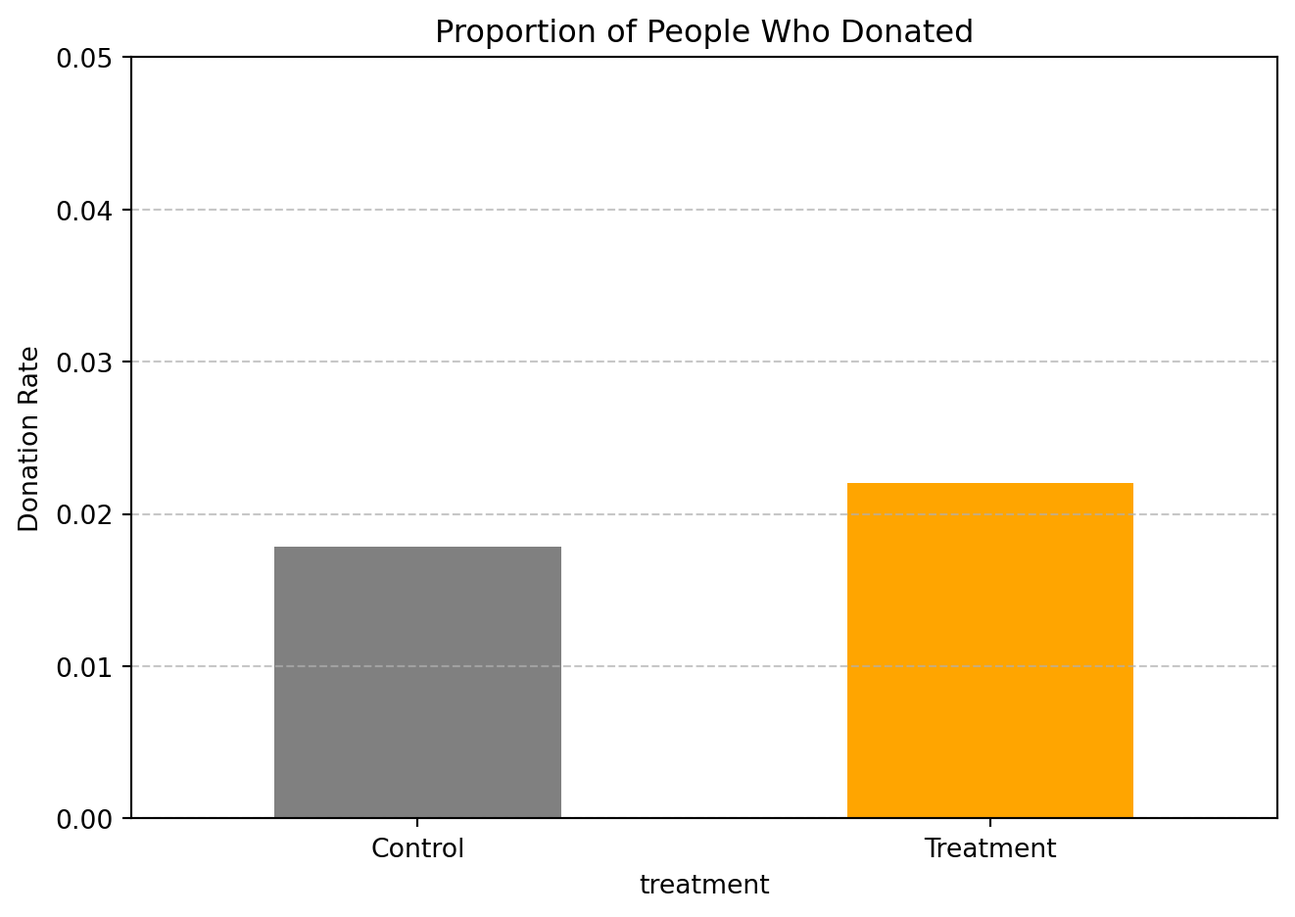
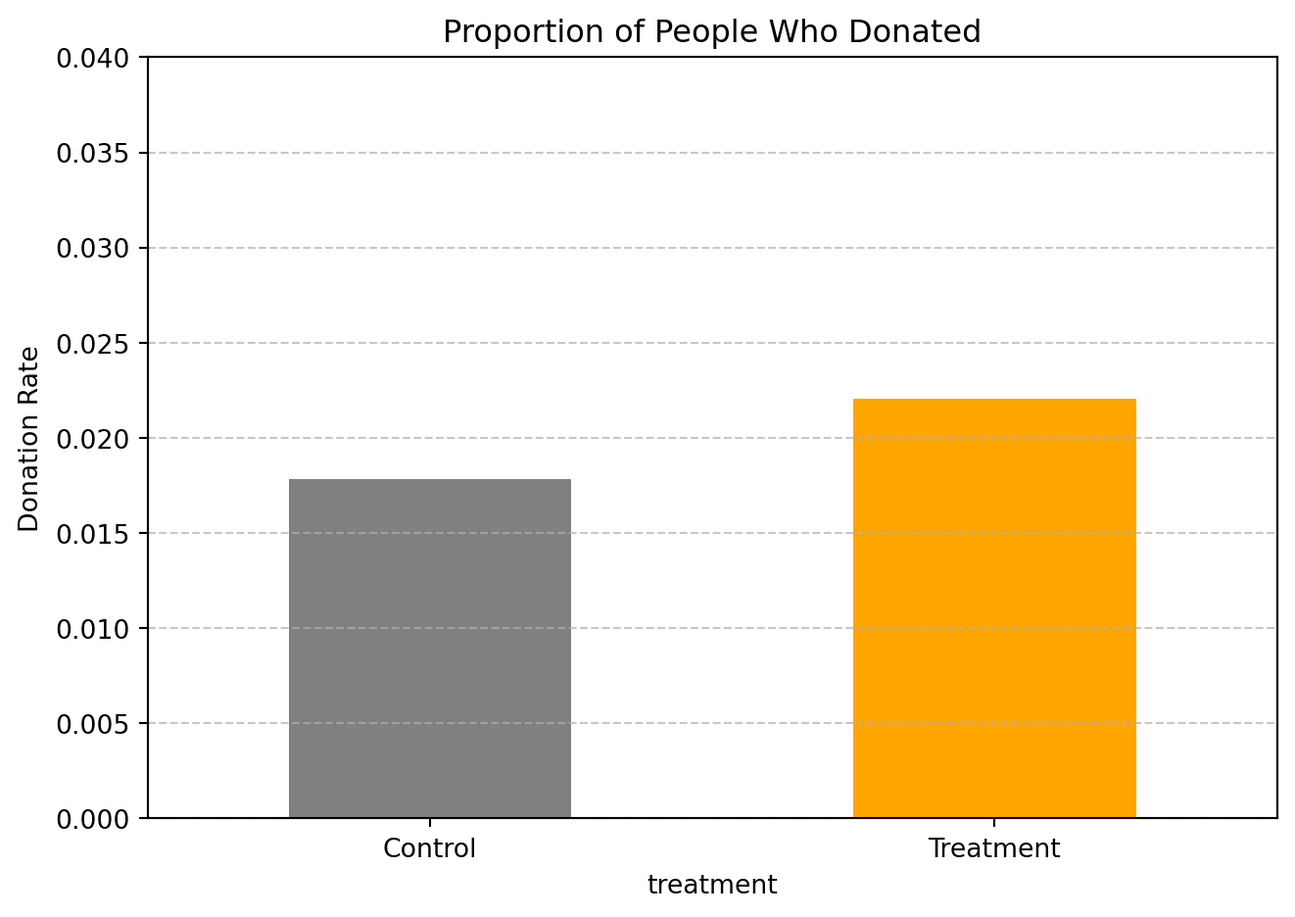
size completed

diff --git a/docs/blogs/hw1/index.html b/docs/blogs/hw1/index.html
@@ -234,7 +234,7 @@ pre > code.sourceCode > span > a:first-child::before { text-decoration: underlin
 - Donation behavior, such as whether the person donated in response, and how much they gave.
 - Demographic indicators and prior donation history (e.g., years since first gift, total number of past donations, gender).
 - Geographic and political indicators, such as whether the donor lived in a “red” or “blue” state during the 2004 presidential election, and the level of activity of the organization in that state.</code></pre>
-<div id="84ed9145" class="cell" data-execution_count="1">
+<div id="a1568310" class="cell" data-execution_count="1">
 <div class="sourceCode cell-code" id="cb2"><pre class="sourceCode python code-with-copy"><code class="sourceCode python"><span id="cb2-1"><a href="#cb2-1" aria-hidden="true" tabindex="-1"></a><span class="im">import</span> pandas <span class="im">as</span> pd</span>
 <span id="cb2-2"><a href="#cb2-2" aria-hidden="true" tabindex="-1"></a>df <span class="op">=</span> pd.read_stata(<span class="st">"karlan_list_2007.dta"</span>)</span></code><button title="Copy to Clipboard" class="code-copy-button"><i class="bi"></i></button></pre></div>
 </div>
@@ -242,7 +242,7 @@ pre > code.sourceCode > span > a:first-child::before { text-decoration: underlin
 <section id="data-overview" class="level3">
 <h3 class="anchored" data-anchor-id="data-overview">Data Overview</h3>
 <p>This following table provides an overview of all variables in the dataset. It includes each variable’s name, its data type (e.g., numeric or categorical), and the number of missing values.</p>
-<div id="e0c97d14" class="cell" data-execution_count="2">
+<div id="80cba03c" class="cell" data-execution_count="2">
 <div class="sourceCode cell-code" id="cb3"><pre class="sourceCode python code-with-copy"><code class="sourceCode python"><span id="cb3-1"><a href="#cb3-1" aria-hidden="true" tabindex="-1"></a>overview_table <span class="op">=</span> pd.DataFrame({</span>
 <span id="cb3-2"><a href="#cb3-2" aria-hidden="true" tabindex="-1"></a>    <span class="st">"Variable"</span>: df.columns,</span>
 <span id="cb3-3"><a href="#cb3-3" aria-hidden="true" tabindex="-1"></a>    <span class="st">"Data Type"</span>: df.dtypes.values,</span>
@@ -253,7 +253,7 @@ pre > code.sourceCode > span > a:first-child::before { text-decoration: underlin
 <section id="variable-definitions" class="level3">
 <h3 class="anchored" data-anchor-id="variable-definitions">Variable Definitions</h3>
 <p>The summary statistics table below presents descriptive metrics for all numeric variables in this dataset, including count, mean, standard deviation, and range (min/max).</p>
-<div id="bfb73414" class="cell" data-execution_count="3">
+<div id="ffa1d8f9" class="cell" data-execution_count="3">
 <div class="sourceCode cell-code" id="cb4"><pre class="sourceCode python code-with-copy"><code class="sourceCode python"><span id="cb4-1"><a href="#cb4-1" aria-hidden="true" tabindex="-1"></a>df.describe().transpose().<span class="bu">round</span>(<span class="dv">2</span>)</span></code><button title="Copy to Clipboard" class="code-copy-button"><i class="bi"></i></button></pre></div>
 <div class="cell-output cell-output-display" data-execution_count="3">
 <div>
@@ -1048,7 +1048,7 @@ Variable Definitions
 <p><em>todo: test a few variables other than the key outcome variables (for example, test months since last donation) to see if the treatment and control groups are statistically significantly different at the 95% confidence level. Do each as a t-test and separately as a linear regression, and confirm you get the exact same results from both methods. When doing a t-test, use the formula in the class slides. When doing the linear regression, regress for example mrm2 on treatment and look at the estimated coefficient on the treatment variable. It might be helpful to compare parts of your analysis to Table 1 in the paper. Be sure to comment on your results (hint: why is Table 1 included in the paper).</em></p>
 <p>To do this, I performed t-tests on a set of baseline variables using the formula:</p>
 <p>[ t = ]</p>
-<div id="09e37917" class="cell" data-execution_count="4">
+<div id="2fad41b6" class="cell" data-execution_count="4">
 <div class="sourceCode cell-code" id="cb5"><pre class="sourceCode python code-with-copy"><code class="sourceCode python"><span id="cb5-1"><a href="#cb5-1" aria-hidden="true" tabindex="-1"></a><span class="im">import</span> numpy <span class="im">as</span> np</span>
 <span id="cb5-2"><a href="#cb5-2" aria-hidden="true" tabindex="-1"></a><span class="im">import</span> pandas <span class="im">as</span> pd</span>
 <span id="cb5-3"><a href="#cb5-3" aria-hidden="true" tabindex="-1"></a></span>
@@ -1172,7 +1172,7 @@ Variable Definitions
 </div>
 </div>
 <p>This table replicates the balance check presented in Table 1 of Karlan &amp; List (2007), using a manual t-test formula to compare pre-treatment characteristics across the treatment and control groups. The variables cover donor behavior (e.g., months since last donation, prior contributions), demographics (e.g., gender, race, household size), and political/geographic indicators (e.g., red state/county, legal involvement of the organization). Across all tested variables, the t-statistics remain small (generally below ±2), and none of the differences reach conventional levels of statistical significance. This provides strong evidence that the treatment assignment was effectively randomized and groups are balanced on observable characteristics. This confirms the reliability of the experiment design and supports the validity of later comparisons on donation behavior.</p>
-<div id="04eb316c" class="cell" data-execution_count="5">
+<div id="32937cc6" class="cell" data-execution_count="5">
 <div class="sourceCode cell-code" id="cb6"><pre class="sourceCode python code-with-copy"><code class="sourceCode python"><span id="cb6-1"><a href="#cb6-1" aria-hidden="true" tabindex="-1"></a><span class="im">from</span> tabulate <span class="im">import</span> tabulate</span>
 <span id="cb6-2"><a href="#cb6-2" aria-hidden="true" tabindex="-1"></a><span class="im">import</span> statsmodels.formula.api <span class="im">as</span> smf</span>
 <span id="cb6-3"><a href="#cb6-3" aria-hidden="true" tabindex="-1"></a></span>
@@ -1212,7 +1212,7 @@ Variable Definitions
 <h3 class="anchored" data-anchor-id="charitable-contribution-made">Charitable Contribution Made</h3>
 <p>First, I analyze whether matched donations lead to an increased response rate of making a donation.</p>
 <p><em>todo: make a barplot with two bars. Each bar is the proportion of people who donated. One bar for treatment and one bar for control.</em></p>
-<div id="3bc4f758" class="cell" data-execution_count="6">
+<div id="651369d0" class="cell" data-execution_count="6">
 <div class="sourceCode cell-code" id="cb8"><pre class="sourceCode python code-with-copy"><code class="sourceCode python"><span id="cb8-1"><a href="#cb8-1" aria-hidden="true" tabindex="-1"></a><span class="im">import</span> matplotlib.pyplot <span class="im">as</span> plt</span>
 <span id="cb8-2"><a href="#cb8-2" aria-hidden="true" tabindex="-1"></a></span>
 <span id="cb8-3"><a href="#cb8-3" aria-hidden="true" tabindex="-1"></a>donation_rates <span class="op">=</span> df.groupby(<span class="st">"treatment"</span>)[<span class="st">"gave"</span>].mean().rename({<span class="dv">0</span>: <span class="st">"Control"</span>, <span class="dv">1</span>: <span class="st">"Treatment"</span>})</span>
@@ -1221,7 +1221,7 @@ Variable Definitions
 <span id="cb8-6"><a href="#cb8-6" aria-hidden="true" tabindex="-1"></a>plt.title(<span class="st">"Proportion of People Who Donated"</span>)</span>
 <span id="cb8-7"><a href="#cb8-7" aria-hidden="true" tabindex="-1"></a>plt.ylabel(<span class="st">"Donation Rate"</span>)</span>
 <span id="cb8-8"><a href="#cb8-8" aria-hidden="true" tabindex="-1"></a>plt.xticks(rotation<span class="op">=</span><span class="dv">0</span>)</span>
-<span id="cb8-9"><a href="#cb8-9" aria-hidden="true" tabindex="-1"></a>plt.ylim(<span class="dv">0</span>, <span class="fl">0.05</span>)  </span>
+<span id="cb8-9"><a href="#cb8-9" aria-hidden="true" tabindex="-1"></a>plt.ylim(<span class="dv">0</span>, <span class="fl">0.04</span>)  </span>
 <span id="cb8-10"><a href="#cb8-10" aria-hidden="true" tabindex="-1"></a>plt.grid(axis<span class="op">=</span><span class="st">'y'</span>, linestyle<span class="op">=</span><span class="st">'--'</span>, alpha<span class="op">=</span><span class="fl">0.7</span>)</span>
 <span id="cb8-11"><a href="#cb8-11" aria-hidden="true" tabindex="-1"></a>plt.tight_layout()</span>
 <span id="cb8-12"><a href="#cb8-12" aria-hidden="true" tabindex="-1"></a>plt.show()</span></code><button title="Copy to Clipboard" class="code-copy-button"><i class="bi"></i></button></pre></div>
@@ -1235,7 +1235,7 @@ Variable Definitions
 </div>
 <p>This plot displays the proportion of individuals who made a charitable contribution in the control and treatment groups. The donation rate is noticeably higher in the treatment group, indicating that the presence of a matching donation offer likely increased the likelihood of giving. This supports the hypothesis that matched donations can serve as an effective behavioral nudge in charitable fundraising.</p>
 <p><em>todo: run a t-test between the treatment and control groups on the binary outcome of whether any charitable donation was made. Also run a bivariate linear regression that demonstrates the same finding. (It may help to confirm your calculations match Table 2a Panel A.) Report your statistical results and interpret them in the context of the experiment (e.g., if you found a difference with a small p-value or that was statistically significant at some threshold, what have you learned about human behavior? Use mostly English words, not numbers or stats, to explain your finding.)</em></p>
-<div id="6d3a9056" class="cell" data-execution_count="7">
+<div id="412b7595" class="cell" data-execution_count="7">
 <div class="sourceCode cell-code" id="cb9"><pre class="sourceCode python code-with-copy"><code class="sourceCode python"><span id="cb9-1"><a href="#cb9-1" aria-hidden="true" tabindex="-1"></a><span class="im">from</span> scipy.stats <span class="im">import</span> ttest_ind</span>
 <span id="cb9-2"><a href="#cb9-2" aria-hidden="true" tabindex="-1"></a></span>
 <span id="cb9-3"><a href="#cb9-3" aria-hidden="true" tabindex="-1"></a>treated <span class="op">=</span> df[df[<span class="st">'treatment'</span>] <span class="op">==</span> <span class="dv">1</span>]</span>
@@ -1248,7 +1248,7 @@ Variable Definitions
 <pre><code>t-statistic: 3.2095, p-value: 0.0013</code></pre>
 </div>
 </div>
-<div id="f236afe6" class="cell" data-execution_count="8">
+<div id="c97ed574" class="cell" data-execution_count="8">
 <div class="sourceCode cell-code" id="cb11"><pre class="sourceCode python code-with-copy"><code class="sourceCode python"><span id="cb11-1"><a href="#cb11-1" aria-hidden="true" tabindex="-1"></a><span class="im">import</span> statsmodels.formula.api <span class="im">as</span> smf</span>
 <span id="cb11-2"><a href="#cb11-2" aria-hidden="true" tabindex="-1"></a></span>
 <span id="cb11-3"><a href="#cb11-3" aria-hidden="true" tabindex="-1"></a>model <span class="op">=</span> smf.ols(<span class="st">"gave ~ treatment"</span>, data<span class="op">=</span>df).fit()</span>
@@ -1268,7 +1268,7 @@ Variable Definitions
 </div>
 <p>Both the t-test and linear regression show a statistically significant difference in donation behavior between the treatment and control groups. Individuals who received a letter mentioning a matching grant were more likely to donate than those who received a standard letter. This finding replicates Table 2a Panel A of Karlan &amp; List (2007), and supports the hypothesis that matched donations act as a strong psychological motivator. From a behavioral standpoint, it suggests that people are more inclined to give when their contributions feel amplified — they may view their gift as having a greater impact, which encourages them to take action. This simple intervention—adding a match offer—significantly influenced behavior even though the individuals in both groups received similar messages aside from that detail.</p>
 <p><em>todo: run a probit regression where the outcome variable is whether any charitable donation was made and the explanatory variable is assignment to treatment or control. Confirm that your results replicate Table 3 column 1 in the paper.</em></p>
-<div id="98cb032e" class="cell" data-execution_count="9">
+<div id="40724f3d" class="cell" data-execution_count="9">
 <div class="sourceCode cell-code" id="cb13"><pre class="sourceCode python code-with-copy"><code class="sourceCode python"><span id="cb13-1"><a href="#cb13-1" aria-hidden="true" tabindex="-1"></a><span class="im">import</span> statsmodels.api <span class="im">as</span> sm</span>
 <span id="cb13-2"><a href="#cb13-2" aria-hidden="true" tabindex="-1"></a><span class="im">import</span> statsmodels.formula.api <span class="im">as</span> smf</span>
 <span id="cb13-3"><a href="#cb13-3" aria-hidden="true" tabindex="-1"></a><span class="im">from</span> tabulate <span class="im">import</span> tabulate</span>
@@ -1295,7 +1295,7 @@ Variable Definitions
 <h3 class="anchored" data-anchor-id="differences-between-match-rates">Differences between Match Rates</h3>
 <p>Next, I assess the effectiveness of different sizes of matched donations on the response rate.</p>
 <p><em>todo: Use a series of t-tests to test whether the size of the match ratio has an effect on whether people donate or not. For example, does the 2:1 match rate lead increase the likelihood that someone donates as compared to the 1:1 match rate? Do your results support the “figures suggest” comment the authors make on page 8?</em></p>
-<div id="0fc1428c" class="cell" data-execution_count="10">
+<div id="6a0658d9" class="cell" data-execution_count="10">
 <div class="sourceCode cell-code" id="cb15"><pre class="sourceCode python code-with-copy"><code class="sourceCode python"><span id="cb15-1"><a href="#cb15-1" aria-hidden="true" tabindex="-1"></a><span class="im">from</span> scipy.stats <span class="im">import</span> ttest_ind</span>
 <span id="cb15-2"><a href="#cb15-2" aria-hidden="true" tabindex="-1"></a></span>
 <span id="cb15-3"><a href="#cb15-3" aria-hidden="true" tabindex="-1"></a>match_only <span class="op">=</span> df[df[<span class="st">"treatment"</span>] <span class="op">==</span> <span class="dv">1</span>]</span>
@@ -1357,7 +1357,7 @@ Variable Definitions
 </div>
 <p>The t-tests above examine whether increasing the match ratio (from 1:1 to 2:1 or 3:1) significantly affects the probability of donating. The results show that the differences in donation rates are not statistically significant** at conventional levels. This finding aligns with the authors’ comment on page 8 of Karlan &amp; List (2007), where they state that “the figures suggest that higher match ratios did not lead to significantly greater giving rates.” Despite intuitive expectations, offering a 2:1 or 3:1 match did not lead to more people donating compared to a 1:1 match. This suggests that the psychological impact of having any match available may be more important than the generosity of the multiplier itself.</p>
 <p><em>todo: Assess the same issue using a regression. Specifically, create the variable <code>ratio1</code> then regress <code>gave</code> on <code>ratio1</code>, <code>ratio2</code>, and <code>ratio3</code> (or alternatively, regress <code>gave</code> on the categorical variable <code>ratio</code>). Interpret the coefficients and their statistical precision.</em></p>
-<div id="7965c190" class="cell" data-execution_count="11">
+<div id="fd9e934e" class="cell" data-execution_count="11">
 <div class="sourceCode cell-code" id="cb16"><pre class="sourceCode python code-with-copy"><code class="sourceCode python"><span id="cb16-1"><a href="#cb16-1" aria-hidden="true" tabindex="-1"></a><span class="im">import</span> statsmodels.formula.api <span class="im">as</span> smf</span>
 <span id="cb16-2"><a href="#cb16-2" aria-hidden="true" tabindex="-1"></a><span class="im">from</span> tabulate <span class="im">import</span> tabulate</span>
 <span id="cb16-3"><a href="#cb16-3" aria-hidden="true" tabindex="-1"></a></span>
@@ -1381,7 +1381,7 @@ Variable Definitions
 </div>
 <p>This regression estimates the donation probability under different match ratios, using <code>ratio1</code> (1:1 match) as the baseline category. The intercept represents the average donation rate for the 1:1 group, while the coefficients for <code>ratio2</code> and <code>ratio3</code> represent the change in probability relative to that baseline. The results confirm that there are no statistically significant differences in donation rates when comparing 2:1 or 3:1 match ratios to the 1:1 ratio. These coefficients are close to zero and accompanied by large p-values, reinforcing the earlier t-test findings. In line with the authors’ interpretation, this suggests that increasing the match ratio beyond 1:1 does not further motivate giving** — the existence of a match alone may be the primary driver of behavioral change, rather than its size.</p>
 <p><em>todo: Calculate the response rate difference between the 1:1 and 2:1 match ratios and the 2:1 and 3:1 ratios. Do this directly from the data, and do it by computing the differences in the fitted coefficients of the previous regression. what do you conclude regarding the effectiveness of different sizes of matched donations?</em></p>
-<div id="5c0a347f" class="cell" data-execution_count="12">
+<div id="8fc6639f" class="cell" data-execution_count="12">
 <div class="sourceCode cell-code" id="cb18"><pre class="sourceCode python code-with-copy"><code class="sourceCode python"><span id="cb18-1"><a href="#cb18-1" aria-hidden="true" tabindex="-1"></a>coef_ratio1 <span class="op">=</span> model.params[<span class="st">"Intercept"</span>]</span>
 <span id="cb18-2"><a href="#cb18-2" aria-hidden="true" tabindex="-1"></a>coef_ratio2 <span class="op">=</span> model.params.get(<span class="st">"C(ratio)[T.ratio2]"</span>, <span class="dv">0</span>)</span>
 <span id="cb18-3"><a href="#cb18-3" aria-hidden="true" tabindex="-1"></a>coef_ratio3 <span class="op">=</span> model.params.get(<span class="st">"C(ratio)[T.ratio3]"</span>, <span class="dv">0</span>)</span>
@@ -1432,8 +1432,98 @@ Variable Definitions
 <h3 class="anchored" data-anchor-id="size-of-charitable-contribution">Size of Charitable Contribution</h3>
 <p>In this subsection, I analyze the effect of the size of matched donation on the size of the charitable contribution.</p>
 <p><em>todo: Calculate a t-test or run a bivariate linear regression of the donation amount on the treatment status. What do we learn from doing this analysis?</em></p>
+<div id="e5230430" class="cell" data-execution_count="13">
+<div class="sourceCode cell-code" id="cb19"><pre class="sourceCode python code-with-copy"><code class="sourceCode python"><span id="cb19-1"><a href="#cb19-1" aria-hidden="true" tabindex="-1"></a><span class="im">from</span> scipy.stats <span class="im">import</span> ttest_ind</span>
+<span id="cb19-2"><a href="#cb19-2" aria-hidden="true" tabindex="-1"></a></span>
+<span id="cb19-3"><a href="#cb19-3" aria-hidden="true" tabindex="-1"></a>t_stat, p_val <span class="op">=</span> ttest_ind(treated[<span class="st">"amount"</span>], control[<span class="st">"amount"</span>], equal_var<span class="op">=</span><span class="va">False</span>)</span>
+<span id="cb19-4"><a href="#cb19-4" aria-hidden="true" tabindex="-1"></a><span class="bu">print</span>(<span class="ss">f"t-statistic: </span><span class="sc">{</span>t_stat<span class="sc">:.4f}</span><span class="ss">, p-value: </span><span class="sc">{</span>p_val<span class="sc">:.4f}</span><span class="ss">"</span>)</span></code><button title="Copy to Clipboard" class="code-copy-button"><i class="bi"></i></button></pre></div>
+<div class="cell-output cell-output-stdout">
+<pre><code>t-statistic: 1.9183, p-value: 0.0551</code></pre>
+</div>
+</div>
+<div id="be50bb36" class="cell" data-execution_count="14">
+<div class="sourceCode cell-code" id="cb21"><pre class="sourceCode python code-with-copy"><code class="sourceCode python"><span id="cb21-1"><a href="#cb21-1" aria-hidden="true" tabindex="-1"></a><span class="im">import</span> statsmodels.formula.api <span class="im">as</span> smf</span>
+<span id="cb21-2"><a href="#cb21-2" aria-hidden="true" tabindex="-1"></a><span class="im">from</span> tabulate <span class="im">import</span> tabulate</span>
+<span id="cb21-3"><a href="#cb21-3" aria-hidden="true" tabindex="-1"></a></span>
+<span id="cb21-4"><a href="#cb21-4" aria-hidden="true" tabindex="-1"></a>model_amt <span class="op">=</span> smf.ols(<span class="st">"amount ~ treatment"</span>, data<span class="op">=</span>df).fit()</span>
+<span id="cb21-5"><a href="#cb21-5" aria-hidden="true" tabindex="-1"></a></span>
+<span id="cb21-6"><a href="#cb21-6" aria-hidden="true" tabindex="-1"></a>summary_table <span class="op">=</span> [</span>
+<span id="cb21-7"><a href="#cb21-7" aria-hidden="true" tabindex="-1"></a>    [<span class="st">"Intercept (Control)"</span>, model_amt.params[<span class="st">"Intercept"</span>], model_amt.pvalues[<span class="st">"Intercept"</span>]],</span>
+<span id="cb21-8"><a href="#cb21-8" aria-hidden="true" tabindex="-1"></a>    [<span class="st">"Treatment Coef"</span>, model_amt.params[<span class="st">"treatment"</span>], model_amt.pvalues[<span class="st">"treatment"</span>]],</span>
+<span id="cb21-9"><a href="#cb21-9" aria-hidden="true" tabindex="-1"></a>    [<span class="st">"R-squared"</span>, model_amt.rsquared, <span class="st">""</span>]</span>
+<span id="cb21-10"><a href="#cb21-10" aria-hidden="true" tabindex="-1"></a>]</span>
+<span id="cb21-11"><a href="#cb21-11" aria-hidden="true" tabindex="-1"></a><span class="bu">print</span>(tabulate(summary_table, headers<span class="op">=</span>[<span class="st">"Term"</span>, <span class="st">"Coef"</span>, <span class="st">"p-value"</span>], tablefmt<span class="op">=</span><span class="st">"github"</span>))</span></code><button title="Copy to Clipboard" class="code-copy-button"><i class="bi"></i></button></pre></div>
+<div class="cell-output cell-output-stdout">
+<pre><code>| Term                |        Coef | p-value                |
+|---------------------|-------------|------------------------|
+| Intercept (Control) | 0.813268    | 1.8434380590916714e-33 |
+| Treatment Coef      | 0.153605    | 0.0628202949211138     |
+| R-squared           | 6.91127e-05 |                        |</code></pre>
+</div>
+</div>
+<p>This analysis tests whether the average donation amount differs between the treatment and control groups — regardless of whether someone donated or not (i.e., this includes all the zeros). Both the t-test and linear regression show that the mean donation amount is slightly higher in the treatment group, but the difference is small in magnitude and statistically weak. The low R-squared value also indicates that treatment status explains very little of the variance in donation amounts. This suggests that while matched donations may influence whether people give, they don’t strongly influence how much they give, at least when considering all individuals (including those who gave $0). To better understand donation behavior among actual donors, we’ll refine this analysis next by limiting it to individuals who did donate.</p>
 <p><em>todo: now limit the data to just people who made a donation and repeat the previous analysis. This regression allows you to analyze how much respondents donate conditional on donating some positive amount. Interpret the regression coefficients – what did we learn? Does the treatment coefficient have a causal interpretation?</em></p>
+<div id="cd66820f" class="cell" data-execution_count="15">
+<div class="sourceCode cell-code" id="cb23"><pre class="sourceCode python code-with-copy"><code class="sourceCode python"><span id="cb23-1"><a href="#cb23-1" aria-hidden="true" tabindex="-1"></a>donors_only <span class="op">=</span> df[df[<span class="st">"gave"</span>] <span class="op">==</span> <span class="dv">1</span>]</span>
+<span id="cb23-2"><a href="#cb23-2" aria-hidden="true" tabindex="-1"></a></span>
+<span id="cb23-3"><a href="#cb23-3" aria-hidden="true" tabindex="-1"></a>model_conditional <span class="op">=</span> smf.ols(<span class="st">"amount ~ treatment"</span>, data<span class="op">=</span>donors_only).fit()</span>
+<span id="cb23-4"><a href="#cb23-4" aria-hidden="true" tabindex="-1"></a></span>
+<span id="cb23-5"><a href="#cb23-5" aria-hidden="true" tabindex="-1"></a>summary_table <span class="op">=</span> [</span>
+<span id="cb23-6"><a href="#cb23-6" aria-hidden="true" tabindex="-1"></a>    [<span class="st">"Intercept (Control)"</span>, model_conditional.params[<span class="st">"Intercept"</span>], model_conditional.pvalues[<span class="st">"Intercept"</span>]],</span>
+<span id="cb23-7"><a href="#cb23-7" aria-hidden="true" tabindex="-1"></a>    [<span class="st">"Treatment Coef"</span>, model_conditional.params[<span class="st">"treatment"</span>], model_conditional.pvalues[<span class="st">"treatment"</span>]],</span>
+<span id="cb23-8"><a href="#cb23-8" aria-hidden="true" tabindex="-1"></a>    [<span class="st">"R-squared"</span>, model_conditional.rsquared, <span class="st">""</span>]</span>
+<span id="cb23-9"><a href="#cb23-9" aria-hidden="true" tabindex="-1"></a>]</span>
+<span id="cb23-10"><a href="#cb23-10" aria-hidden="true" tabindex="-1"></a><span class="bu">print</span>(tabulate(summary_table, headers<span class="op">=</span>[<span class="st">"Term"</span>, <span class="st">"Coef"</span>, <span class="st">"p-value"</span>], tablefmt<span class="op">=</span><span class="st">"github"</span>))</span></code><button title="Copy to Clipboard" class="code-copy-button"><i class="bi"></i></button></pre></div>
+<div class="cell-output cell-output-stdout">
+<pre><code>| Term                |         Coef | p-value               |
+|---------------------|--------------|-----------------------|
+| Intercept (Control) | 45.5403      | 5.473577513362287e-68 |
+| Treatment Coef      | -1.66839     | 0.5614755766155122    |
+| R-squared           |  0.000326806 |                       |</code></pre>
+</div>
+</div>
+<p>By focusing only on those who actually donated, this regression estimates how much more (or less) people gave if they were in the treatment group compared to the control group. The estimated coefficient on <code>treatment</code> now reflects the difference in average gift size conditional on donating. The result shows that the treatment has very little effect on the amount donated among those who gave something — the coefficient is small and statistically insignificant. This finding supports the idea that the matching grant mainly affects the decision to donate, not the amount donated once that decision is made. In other words, treatment increases the extensive margin (whether to give), but not the intensive margin (how much to give). Regarding causal interpretation: since treatment was randomly assigned, and we’re conditioning on an outcome (<code>gave</code>), the estimate does not have a strict causal interpretation. It’s subject to selection bias — those who gave in treatment might be different in unobservable ways from those who gave in control. So we interpret this descriptively rather than causally.</p>
 <p><em>todo: Make two plot: one for the treatment group and one for the control. Each plot should be a histogram of the donation amounts only among people who donated. Add a red vertical bar or some other annotation to indicate the sample average for each plot.</em></p>
+<div id="cc6bec13" class="cell" data-execution_count="16">
+<div class="sourceCode cell-code" id="cb25"><pre class="sourceCode python code-with-copy"><code class="sourceCode python"><span id="cb25-1"><a href="#cb25-1" aria-hidden="true" tabindex="-1"></a><span class="im">import</span> matplotlib.pyplot <span class="im">as</span> plt</span>
+<span id="cb25-2"><a href="#cb25-2" aria-hidden="true" tabindex="-1"></a></span>
+<span id="cb25-3"><a href="#cb25-3" aria-hidden="true" tabindex="-1"></a>donors_only <span class="op">=</span> df[df[<span class="st">"gave"</span>] <span class="op">==</span> <span class="dv">1</span>]</span>
+<span id="cb25-4"><a href="#cb25-4" aria-hidden="true" tabindex="-1"></a></span>
+<span id="cb25-5"><a href="#cb25-5" aria-hidden="true" tabindex="-1"></a>treat_donors <span class="op">=</span> donors_only[donors_only[<span class="st">"treatment"</span>] <span class="op">==</span> <span class="dv">1</span>][<span class="st">"amount"</span>]</span>
+<span id="cb25-6"><a href="#cb25-6" aria-hidden="true" tabindex="-1"></a>control_donors <span class="op">=</span> donors_only[donors_only[<span class="st">"treatment"</span>] <span class="op">==</span> <span class="dv">0</span>][<span class="st">"amount"</span>]</span>
+<span id="cb25-7"><a href="#cb25-7" aria-hidden="true" tabindex="-1"></a></span>
+<span id="cb25-8"><a href="#cb25-8" aria-hidden="true" tabindex="-1"></a>mean_treat <span class="op">=</span> treat_donors.mean()</span>
+<span id="cb25-9"><a href="#cb25-9" aria-hidden="true" tabindex="-1"></a>mean_control <span class="op">=</span> control_donors.mean()</span>
+<span id="cb25-10"><a href="#cb25-10" aria-hidden="true" tabindex="-1"></a></span>
+<span id="cb25-11"><a href="#cb25-11" aria-hidden="true" tabindex="-1"></a>fig, axes <span class="op">=</span> plt.subplots(<span class="dv">1</span>, <span class="dv">2</span>, figsize<span class="op">=</span>(<span class="dv">12</span>, <span class="dv">5</span>), sharey<span class="op">=</span><span class="va">True</span>)</span>
+<span id="cb25-12"><a href="#cb25-12" aria-hidden="true" tabindex="-1"></a></span>
+<span id="cb25-13"><a href="#cb25-13" aria-hidden="true" tabindex="-1"></a><span class="co"># Treatment plot</span></span>
+<span id="cb25-14"><a href="#cb25-14" aria-hidden="true" tabindex="-1"></a>axes[<span class="dv">0</span>].hist(treat_donors, bins<span class="op">=</span><span class="dv">30</span>, color<span class="op">=</span><span class="st">'orange'</span>, edgecolor<span class="op">=</span><span class="st">'black'</span>, alpha<span class="op">=</span><span class="fl">0.8</span>)</span>
+<span id="cb25-15"><a href="#cb25-15" aria-hidden="true" tabindex="-1"></a>axes[<span class="dv">0</span>].axvline(mean_treat, color<span class="op">=</span><span class="st">'red'</span>, linestyle<span class="op">=</span><span class="st">'--'</span>, label<span class="op">=</span><span class="ss">f'Mean = </span><span class="sc">{</span>mean_treat<span class="sc">:.2f}</span><span class="ss">'</span>)</span>
+<span id="cb25-16"><a href="#cb25-16" aria-hidden="true" tabindex="-1"></a>axes[<span class="dv">0</span>].set_title(<span class="st">"Treatment Group"</span>)</span>
+<span id="cb25-17"><a href="#cb25-17" aria-hidden="true" tabindex="-1"></a>axes[<span class="dv">0</span>].set_xlabel(<span class="st">"Donation Amount ($)"</span>)</span>
+<span id="cb25-18"><a href="#cb25-18" aria-hidden="true" tabindex="-1"></a>axes[<span class="dv">0</span>].set_ylabel(<span class="st">"Number of Donors"</span>)</span>
+<span id="cb25-19"><a href="#cb25-19" aria-hidden="true" tabindex="-1"></a>axes[<span class="dv">0</span>].legend()</span>
+<span id="cb25-20"><a href="#cb25-20" aria-hidden="true" tabindex="-1"></a></span>
+<span id="cb25-21"><a href="#cb25-21" aria-hidden="true" tabindex="-1"></a><span class="co"># Control plot</span></span>
+<span id="cb25-22"><a href="#cb25-22" aria-hidden="true" tabindex="-1"></a>axes[<span class="dv">1</span>].hist(control_donors, bins<span class="op">=</span><span class="dv">30</span>, color<span class="op">=</span><span class="st">'lightgreen'</span>, edgecolor<span class="op">=</span><span class="st">'black'</span>, alpha<span class="op">=</span><span class="fl">0.8</span>)</span>
+<span id="cb25-23"><a href="#cb25-23" aria-hidden="true" tabindex="-1"></a>axes[<span class="dv">1</span>].axvline(mean_control, color<span class="op">=</span><span class="st">'red'</span>, linestyle<span class="op">=</span><span class="st">'--'</span>, label<span class="op">=</span><span class="ss">f'Mean = </span><span class="sc">{</span>mean_control<span class="sc">:.2f}</span><span class="ss">'</span>)</span>
+<span id="cb25-24"><a href="#cb25-24" aria-hidden="true" tabindex="-1"></a>axes[<span class="dv">1</span>].set_title(<span class="st">"Control Group"</span>)</span>
+<span id="cb25-25"><a href="#cb25-25" aria-hidden="true" tabindex="-1"></a>axes[<span class="dv">1</span>].set_xlabel(<span class="st">"Donation Amount ($)"</span>)</span>
+<span id="cb25-26"><a href="#cb25-26" aria-hidden="true" tabindex="-1"></a>axes[<span class="dv">1</span>].legend()</span>
+<span id="cb25-27"><a href="#cb25-27" aria-hidden="true" tabindex="-1"></a></span>
+<span id="cb25-28"><a href="#cb25-28" aria-hidden="true" tabindex="-1"></a>fig.suptitle(<span class="st">"Histogram of Donation Amounts (Among Donors Only)"</span>, fontsize<span class="op">=</span><span class="dv">14</span>)</span>
+<span id="cb25-29"><a href="#cb25-29" aria-hidden="true" tabindex="-1"></a>plt.tight_layout()</span>
+<span id="cb25-30"><a href="#cb25-30" aria-hidden="true" tabindex="-1"></a>plt.show()</span></code><button title="Copy to Clipboard" class="code-copy-button"><i class="bi"></i></button></pre></div>
+<div class="cell-output cell-output-display">
+<div>
+<figure class="figure">
+<p><img src="index_files/figure-html/cell-17-output-1.png" width="1141" height="473" class="figure-img"></p>
+</figure>
+</div>
+</div>
+</div>
+<p>These histograms visualize the distribution of donation amounts among those who gave, separately for the treatment and control groups. The red vertical lines represent the sample average donation in each group. Below are the main observations: - Both distributions are highly right-skewed with many small donations and a few large outliers. - The average donation amount is slightly lower in the treatment group than in the control group. These observations align with earlier regression findings showing that while matched gifts increase the likelihood of donating, they do not increase the amount given by those who choose to donate. This suggests that matching gifts influence whether people give, but not how much they give, reinforcing the psychological interpretation that matched gifts are more about prompting action than amplifying generosity.</p>
 </section>
 </section>
 <section id="simulation-experiment" class="level2">

diff --git a/docs/blogs.html b/docs/blogs.html
@@ -229,7 +229,7 @@ Apr 23, 2025
 </div>
 </div></a>
 </div>
-<div class="g-col-1" data-index="1" data-listing-date-sort="1745391600000" data-listing-file-modified-sort="1745463389139" data-listing-date-modified-sort="NaN" data-listing-reading-time-sort="29" data-listing-word-count-sort="5624">
+<div class="g-col-1" data-index="1" data-listing-date-sort="1745391600000" data-listing-file-modified-sort="1745464555620" data-listing-date-modified-sort="NaN" data-listing-reading-time-sort="31" data-listing-word-count-sort="6200">
 <a href="./blogs/hw1/index.html" class="quarto-grid-link">
 <div class="quarto-grid-item card h-100 card-left">
 <p class="card-img-top"><img src="blogs/hw1/index_files/figure-html/cell-7-output-1.png" style="height: 150px;"  class="thumbnail-image card-img"/></p>
